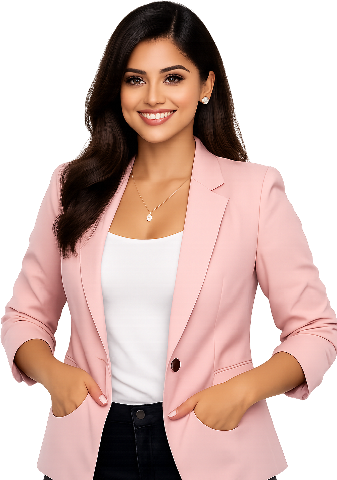
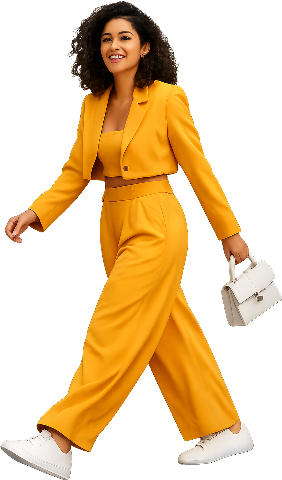
Talking over the assistant stops her and she listens (voice interruption back on); three distinct new Try Now pictures for clothes, jewellery and custom

diff --git a/test/barge_in_test.dart b/test/barge_in_test.dart
@@ -1,0 +1,56 @@
+// Talking over her (owner, 2026-11-24: "when we start speaking, it should
+// hold and listen"): the measured check that tells the owner's voice from
+// her own, coming back out of the phone's speaker.
+import 'package:flutter_test/flutter_test.dart';
+import 'package:myassistant/ai/live_voice.dart';
+import 'package:myassistant/services/audio/barge_in.dart';
+
+void main() {
+  const floor = 0.01, speechBar = 0.03, frame = 20;
+
+  /// [ms] of her voice alone: the microphone hears 30% of her (her echo).
+  bool herVoice(BargeInDetector d, int ms, {double level = 0.2}) {
+    var any = false;
+    for (var t = 0; t < ms; t += frame) {
+      any |= d.feed(mic: floor + 0.3 * level, echo: level, floor: floor, speechBar: speechBar, ms: frame);
+    }
+    return any;
+  }
+
+  /// [ms] of the owner talking over her, clearly louder than her echo.
+  bool ownerOverHer(BargeInDetector d, int ms, {double level = 0.2}) {
+    var any = false;
+    for (var t = 0; t < ms; t += frame) {
+      any |= d.feed(mic: 0.4, echo: level, floor: floor, speechBar: speechBar, ms: frame);
+    }
+    return any;
+  }
+
+  test('interruption by voice is on', () {
+    expect(LiveVoice.autoBargeIn, isTrue);
+  });
+
+  test('her own voice coming back never counts as the owner', () {
+    final d = BargeInDetector();
+    expect(herVoice(d, 4000), isFalse);
+    expect(d.warm, isTrue);
+    expect(d.coupling, closeTo(0.3, 0.01), reason: 'the leak is learnt');
+    // Louder passages of her own voice still do not count.
+    expect(herVoice(d, 2000, level: 0.5), isFalse);
+  });
+
+  test('the owner talking over her stops her after a word, not a cough', () {
+    final d = BargeInDetector();
+    herVoice(d, 1000);
+    // A cough or a clink: too short.
+    expect(ownerOverHer(d, 120), isFalse);
+    expect(herVoice(d, 200), isFalse);
+    // Words: held long enough, it counts.
+    expect(ownerOverHer(d, 500), isTrue);
+  });
+
+  test('before it knows this phone\'s echo, nothing counts', () {
+    final d = BargeInDetector();
+    expect(ownerOverHer(d, 1000), isFalse, reason: 'not warm yet');
+  });
+}

diff --git a/lib/ai/live_voice.dart b/lib/ai/live_voice.dart
@@ -1051,9 +1051,12 @@ class LiveVoice {
   /// gone (the cascade listens instead).
   Future<bool> resume() => start();
 
-  /// Talking over her stops her (off since 2026-10-02: only the
-  /// Interrupt button does). Tests of the old behaviour turn it on.
-  static bool autoBargeIn = false;
+  /// Talking over her stops her (owner, 2026-11-24: "when we start
+  /// speaking, it should hold and listen"). It was off from 2026-10-02 to
+  /// 2026-11-24, when only the Interrupt button stopped her. The measured
+  /// check (BargeInDetector) keeps her own voice from the speaker, and
+  /// ordinary room noise, from counting as the owner.
+  static bool autoBargeIn = true;
 
   /// A tap on her: she stops now, and the rest of that answer is dropped.
   Future<void> interrupt() async {
@@ -1197,10 +1200,8 @@ class LiveVoice {
       _preRoll.clear();
     }
     _preRoll.add(c, ms);
-    // NO VOICE INTERRUPTION (the owner, 2026-10-02: "it interrupts when
-    // someone speaks — remove interruption completely and add a button"):
-    // while she speaks the room is not sent, so nothing anyone says stops
-    // her. The Interrupt button on the voice screen does ([interrupt]).
+    // Interruption off ([autoBargeIn] false): while she speaks the room is
+    // not sent, so only the Interrupt button stops her ([interrupt]).
     if (!autoBargeIn) {
       _send(Uint8List(c.length));
       return;
@@ -1248,6 +1249,11 @@ class LiveVoice {
       t.cutOffAfter ??= _heardChars(t);
       _dropOutput = !t.serverDone;
     }
+    // The model stops making the rest of her reply too, as with the
+    // Interrupt button (OpenAI: response.cancel); otherwise it carried on
+    // and the owner's words met a reply still in progress.
+    final s = _session;
+    if (s case final CancellableReply c) c.cancelReply();
     unawaited(_player.stop());
     _wasPlaying = false;
     _emit(const LiveInterrupted());

diff --git a/lib/features/assistant/state/assistant_engine.dart b/lib/features/assistant/state/assistant_engine.dart
@@ -140,9 +140,10 @@ class AssistantEngine extends ChangeNotifier {
   /// Talking over her: the microphone listens while she speaks.
   BargeInWatch? _bargeMade;
   BargeInWatch get _barge => _bargeMade ??= BargeInWatch(player: _player);
-  // Off since 2026-10-02 (the owner: "remove interruption completely"):
-  // the Interrupt button on the voice screen calls [bargeIn].
-  bool _bargeWatchOn = false;
+  // On again since 2026-11-24 (the owner: "when we start speaking, it
+  // should hold and listen"); off from 2026-10-02. The Interrupt button on
+  // the voice screen still calls [bargeIn] too.
+  bool _bargeWatchOn = true;
 
   // ---------------- THE FAST VOICE (Gemini Live) ----------------
   // 2026-09-30: a spoken conversation runs on ONE Gemini Live session

diff --git a/lib/ai/openai_live.dart b/lib/ai/openai_live.dart
@@ -154,8 +154,9 @@ class OpenAiLiveSession implements LiveSessionPort, CancellableReply {
         _responding = true;
       case 'input_audio_buffer.speech_started':
         _speechStartedAt = DateTime.now();
-        // Never an interruption (the owner, 2026-10-02): a voice in the room
-        // does not stop her; the Interrupt button does ([cancelReply]).
+        // Not the server's call: the phone decides whether the owner is
+        // talking over her (LiveVoice's measured check, which knows her own
+        // echo) and then cancels the reply itself ([cancelReply]).
         break;
       case 'input_audio_buffer.speech_stopped':
         final started = _speechStartedAt;
